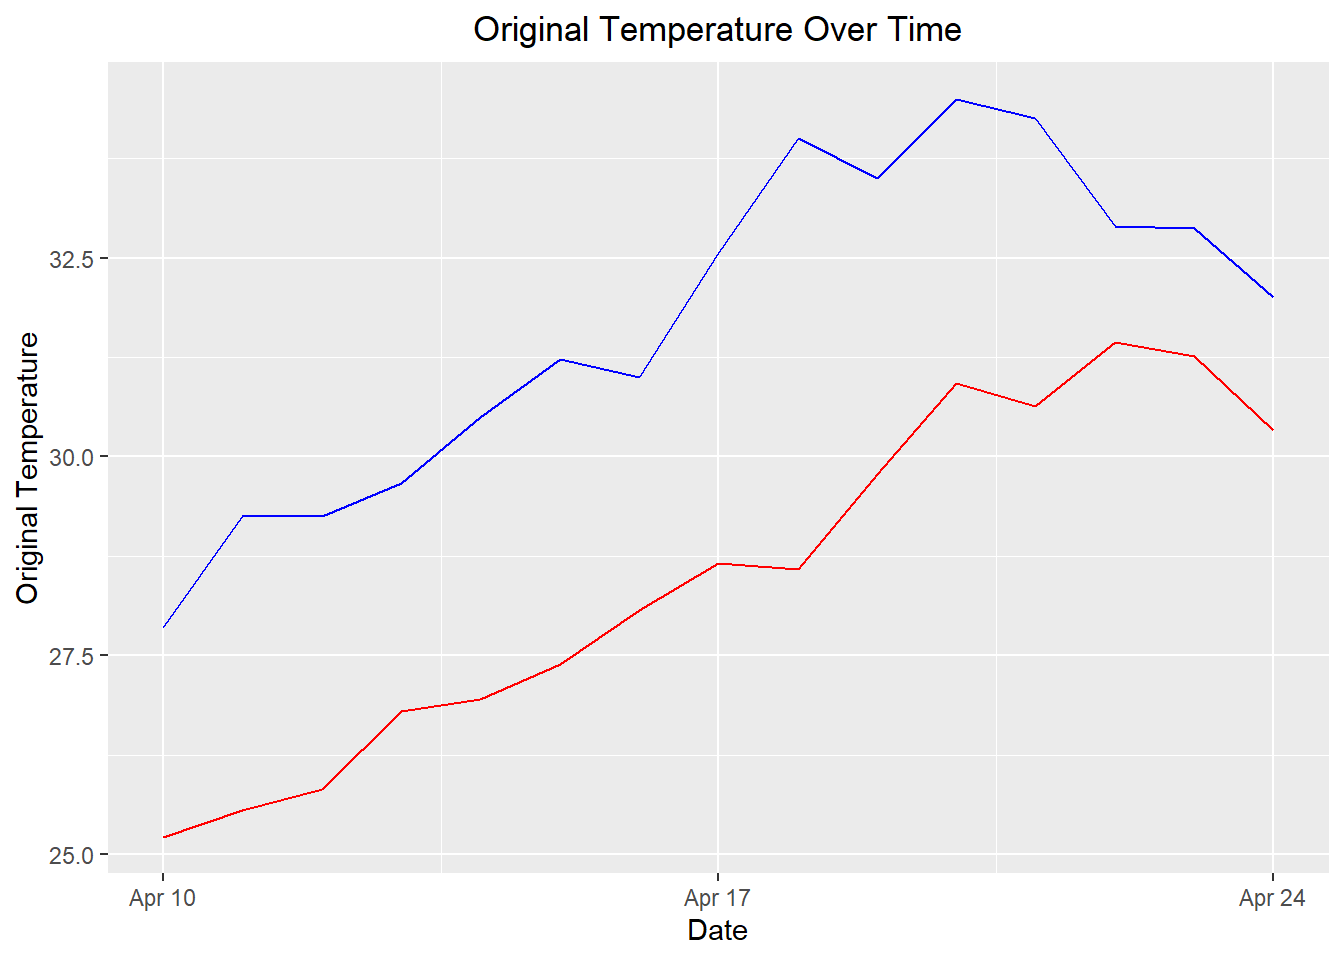
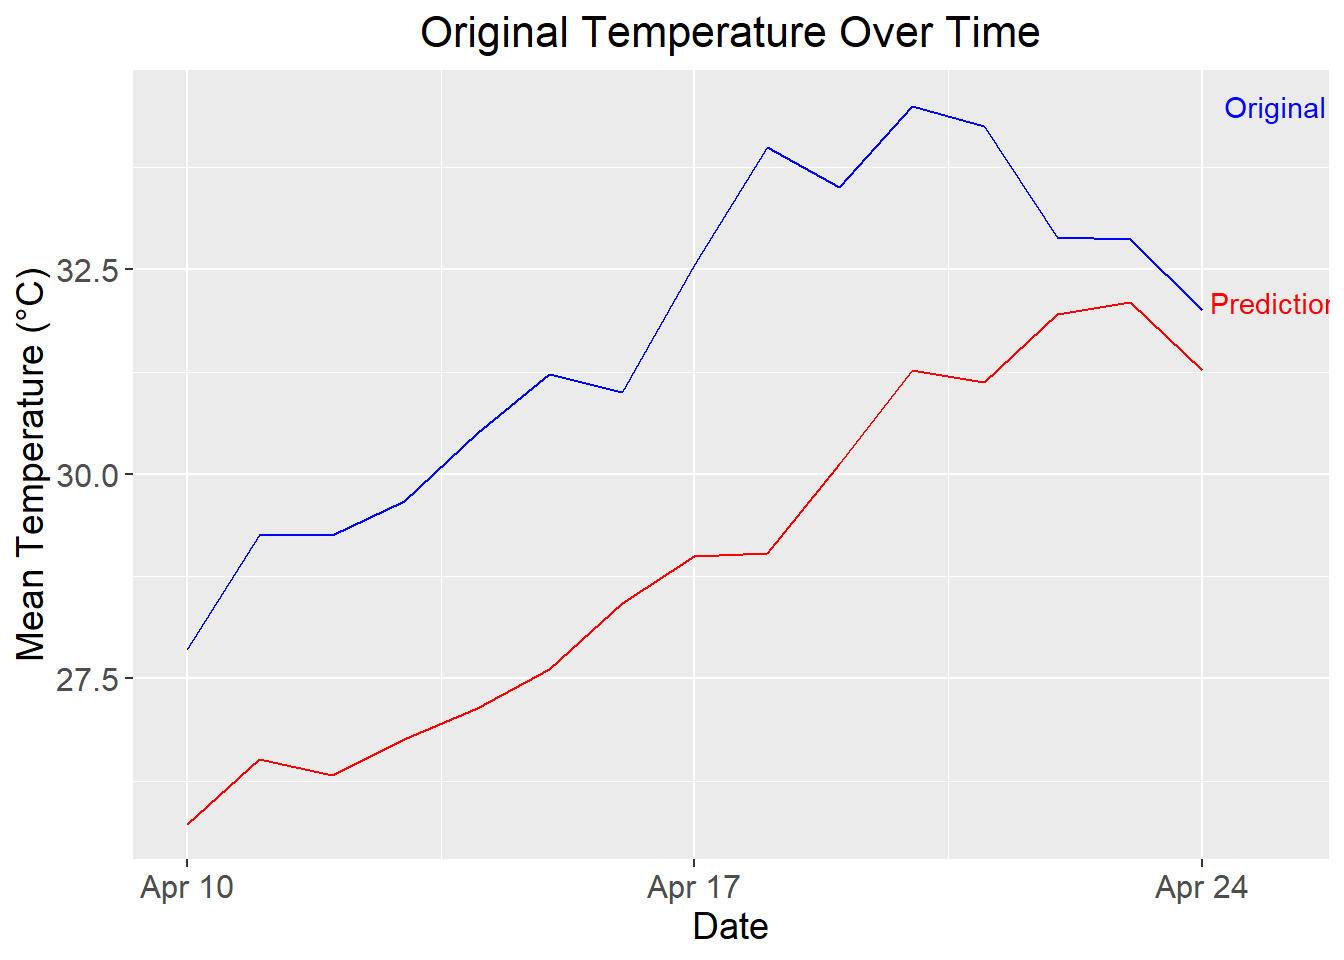
Updated Introduction and added new References.

diff --git a/index.html b/index.html
@@ -131,8 +131,14 @@ div.csl-indent {
 
 <section id="introduction" class="level2">
 <h2 class="anchored" data-anchor-id="introduction">Introduction</h2>
-<p>Recurrent networks can in principle use their feedback connections to store representations of recent input events in form of activation’s (“short-term memory”, as opposed to “long-term memory embodied by slowly changing weights). The most widely used algorithms for learning what to put in short-term memory, however, take too much time or do not work well at all, especially when minimal time lags between inputs and corresponding teacher signals are long. With conventional”Back-Propagation Through Time” or “Real-Time Recurrent Learning”, error signals “flowing backwards in time” tend to either (1) blow up or (2) vanish: the temporal evolution of the back-propagated error exponentially depends on the size of the weights. Case (1) may lead to oscillating weights, while in case (2) learning to bridge long time lags takes a prohibitive amount of time, or does not work at all. Long Short-Term Memory(LSTM), a novel recurrent network architecture in conjunction with an appropriate gradient based learning algorithm comes up as a remedy to solve this problem. It can learn to bridge time intervals in excess of 1000 steps even in case of noisy, in-compressible input sequences, without loss of short term time lag capabilities. This is achieved by an efficient, gradient-based algorithm for an architecture enforcing constant error flow through internal states of special units<span class="citation" data-cites="hochreiter1997long">(<a href="#ref-hochreiter1997long" role="doc-biblioref">Hochreiter and Schmidhuber 1997</a>)</span>. Recurrent neural networks with Long Short-term Memory have emerged as an effective and scalable model for several learning problems related to sequential data. The central idea behind the LSTM architecture is a memory cell which can maintain its state over time, and non-linear gating units which regulate the information flow into and out of the cell. Most modern studies incorporate many improvements that have been made to the LSTM architecture since its original formulation.However, LSTM’s are now applied to many learning problems which differ significantly in scale and nature from the problems that these improvements were initially tested on<span class="citation" data-cites="greff2016lstm">(<a href="#ref-greff2016lstm" role="doc-biblioref">Greff et al. 2016</a>)</span>.</p>
-<p>A large part of real-world datasets are temporal in nature. Due to its distinctive properties, there are numerous unsolved problems with wide range of applications. Data collected over regular intervals of time is called time-series (TS) data and each data point is equally spaced over time. TS prediction is the method of forecasting upcoming trends/patterns of the given historical dataset with temporal features. A time series (TS) data can be break downed into trend, seasonality and error. A trend in TS can be observed when a certain pattern repeats on regular intervals of time due to external factors. In many real world scenarios, either of trend or seasonality are absent. After finding the nature of TS, various forecasting methods have to be applied on given TS. Given the TS, it is broadly classified into 2 categories i.e. stationary and non-stationary. A series is said to be stationary, if it does not depend on the time components like trend, seasonality effects. Mean and variances of such series are constant with respect to time. Stationary TS is easier to analyze and results skillful forecasting. A TS data is said to non-stationary if it has trend, seasonality effects in it and changes with respect to time. Statistical properties like mean, variance, sand standard deviation also changes with respect to time<span class="citation" data-cites="chimmula2020time">(<a href="#ref-chimmula2020time" role="doc-biblioref">Chimmula and Zhang 2020</a>)</span>.</p>
+<p>Recurrent Neural Networks (RNNs) are one of the most popular data-driven approaches used for time-series prediction. RNNs benefit from feedback loops which makes the output of RNN in one time step to be seen as an input in the subsequent one. Having information in a sequential form, the input of the RNN in each time step includes the information of the corresponding time step in the sequence and the previous information provided by a feedback loop<span class="citation" data-cites="karevan2020transductive">(<a href="#ref-karevan2020transductive" role="doc-biblioref">Karevan and Suykens 2020</a>)</span>. A RNN maintains a memory based on history information, which enables the model to predict the current output conditioned on long distance features<span class="citation" data-cites="huang2015bidirectional">(<a href="#ref-huang2015bidirectional" role="doc-biblioref">Huang, Xu, and Yu 2015</a>)</span>.Recurrent networks can in principle use their feedback connections to store representations of recent input events in form of activation’s (“short-term memory”, as opposed to “long-term memory embodied by slowly changing weights). The most widely used algorithms for learning what to put in short-term memory, however, take too much time or do not work well at all, especially when minimal time lags between inputs and corresponding teacher signals are long. With conventional”Back-Propagation Through Time” or “Real-Time Recurrent Learning”, error signals “flowing backwards in time” tend to either (1) blow up or (2) vanish: the temporal evolution of the back-propagated error exponentially depends on the size of the weights. Case (1) may lead to oscillating weights, while in case (2) learning to bridge long time lags takes a prohibitive amount of time, or does not work at all.</p>
+<p>Recurrent Neural Networks, often shortened to RNNs, are a class of neural networks which exhibit temporal behavior due to directed connections between units of an individual layer. Recurrent neural</p>
+<p>networks maintain a hidden vector <strong>h</strong>, which is updated at time step <em>t</em> as follows:</p>
+<p><span class="math display">\[ h_t = tanh(Wh_{t-1}+Ix_t)\]</span> where tanh is the hyperbolic tangent function. <strong>W</strong> is the recurrent weight matrix and <strong>I</strong> is a projection matrix. The hidden state <strong>h</strong> is used to make a prediction</p>
+<p><span class="math display">\[y_t = softmax(Wh_{t-1})\]</span> where softmax provides a normalized probability distribution over the possible classes, <span class="math inline">\(\sigma\)</span> is the logistic sigmoid function and <strong>W</strong> is a weight matrix. By using <strong>h</strong> as the input to another RNN, we can stack RNNs, creating deeper architectures<span class="citation" data-cites="karim2017lstm">(<a href="#ref-karim2017lstm" role="doc-biblioref">Karim et al. 2017</a>)</span>. <span class="math display">\[h^l_t = \sigma(Wh^l_{t-1} + Ih^{l-1}_t)\]</span></p>
+<p>Long Short-Term Memory(LSTM), a novel recurrent network architecture in conjunction with an appropriate gradient based learning algorithm comes up as a remedy to solve this problem. It can learn to bridge time intervals in excess of 1000 steps even in case of noisy, in-compressible input sequences, without loss of short term time lag capabilities. This is achieved by an efficient, gradient-based algorithm for an architecture enforcing constant error flow through internal states of special units<span class="citation" data-cites="hochreiter1997long">(<a href="#ref-hochreiter1997long" role="doc-biblioref">Hochreiter and Schmidhuber 1997</a>)</span>. Recurrent neural networks with Long Short-term Memory have emerged as an effective and scalable model for several learning problems related to sequential data. The central idea behind the LSTM architecture is a memory cell which can maintain its state over time, and non-linear gating units which regulate the information flow into and out of the cell. Most modern studies incorporate many improvements that have been made to the LSTM architecture since its original formulation.However, LSTM’s are now applied to many learning problems which differ significantly in scale and nature from the problems that these improvements were initially tested on<span class="citation" data-cites="greff2016lstm">(<a href="#ref-greff2016lstm" role="doc-biblioref">Greff et al. 2016</a>)</span>.</p>
+<p>Due to information explosion in recent years, a large amount of data has become available online and manually analyzing this data is not feasible. Various supervised and unsupervised machine learning techniques have been developed to automatically gather and analyze data and make predictions. Deep learning techniques have become the hottest tool delivering state-of-the art results in areas as diverse as computer vision, speech recognition and NLP problems. But deep learning techniques also present a unique set of challenges. The performance of deep learning models depends upon a number of parameters called hyper-parameters. Hyper-parameters are manually set training variables which are determined before training the model. Some automatic techniques for tuning hyper-parameters have been proposed but these methods don’t provide insight to the end-users about the interactions between different hyper-parameters and their relative importance. For the deep learning model used in this paper, namely LSTM, the important hyper-parameters are activation function (sigmoid, tanh, softmax etc.), optimizer (Adam, Adadelta, RMSprop etc.), batch size, number of epochs, number of hidden layers etc. LSTM can be stateful or stateless<span class="citation" data-cites="yadav2020optimizing">(<a href="#ref-yadav2020optimizing" role="doc-biblioref">Yadav, Jha, and Sharan 2020</a>)</span>.</p>
+<p>A critical area of machine learning is Time Series forecasting, as various forecasting problems contain a time component. It is one of the most applied data science technique in business, supply chain management, and production. A series of observations taken chronologically in time is known as a Time Series(TS). A time-series dataset is different from other datasets, as it adds a time element. This added element is both a limitation and a structure that offers an additional source of information<span class="citation" data-cites="yamak2019comparison">(<a href="#ref-yamak2019comparison" role="doc-biblioref">Yamak, Yujian, and Gadosey 2019</a>)</span>. TS prediction is the method of forecasting upcoming trends/patterns of the given historical dataset with temporal features. A time series (TS) data can be break downed into trend, seasonality and error. A trend in TS can be observed when a certain pattern repeats on regular intervals of time due to external factors. In many real world scenarios, either of trend or seasonality are absent. After finding the nature of TS, various forecasting methods have to be applied on given TS. Given the TS, it is broadly classified into 2 categories i.e.&nbsp;stationary and non-stationary. A series is said to be stationary, if it does not depend on the time components like trend, seasonality effects. Mean and variances of such series are constant with respect to time. Stationary TS is easier to analyze and results skillful forecasting. A TS data is said to non-stationary if it has trend, seasonality effects in it and changes with respect to time. Statistical properties like mean, variance, sand standard deviation also changes with respect to time<span class="citation" data-cites="chimmula2020time">(<a href="#ref-chimmula2020time" role="doc-biblioref">Chimmula and Zhang 2020</a>)</span>.</p>
 </section>
 <section id="methods" class="level2">
 <h2 class="anchored" data-anchor-id="methods">Methods</h2>
@@ -221,7 +227,7 @@ div.csl-indent {
 <p><img src="index_files/figure-html/unnamed-chunk-3-1.png" class="img-fluid" width="672"></p>
 </div>
 </div>
-<p>Split dataset into train and test sets</p>
+<p>Performing Min Max Transformations on the dataset</p>
 <div class="cell">
 <details>
 <summary>Code</summary>
@@ -231,7 +237,6 @@ div.csl-indent {
 <span id="cb7-4"><a href="#cb7-4" aria-hidden="true" tabindex="-1"></a>mean_temp<span class="sc">$</span>transformed <span class="ot">&lt;-</span> (mean_temp<span class="sc">$</span>meantemp <span class="sc">-</span> <span class="fu">min</span>(mean_temp<span class="sc">$</span>meantemp)) <span class="sc">/</span> (<span class="fu">max</span>(mean_temp<span class="sc">$</span>meantemp) <span class="sc">-</span> <span class="fu">min</span>(mean_temp<span class="sc">$</span>meantemp))</span></code><button title="Copy to Clipboard" class="code-copy-button"><i class="bi"></i></button></pre></div>
 </details>
 </div>
-<p>Generally in LSTM the data needs to be in a supervised learning mode. That is done by having at least 2 variable: target variable <em>Y</em> and predictor <em>X</em>. To achieve this, we transform the series by lagging the series and have the value at <em>time (t−k)</em> as the input and value at <em>time t</em> as the output, for a k-step lagged dataset.</p>
 </section>
 <section id="statistical-modeling" class="level3">
 <h3 class="anchored" data-anchor-id="statistical-modeling">Statistical Modeling</h3>
@@ -256,7 +261,7 @@ div.csl-indent {
 <span id="cb10-7"><a href="#cb10-7" aria-hidden="true" tabindex="-1"></a>                 <span class="at">tsLag=</span><span class="dv">5</span>,</span>
 <span id="cb10-8"><a href="#cb10-8" aria-hidden="true" tabindex="-1"></a>                 <span class="at">LSTMUnits=</span><span class="dv">7</span>,</span>
 <span id="cb10-9"><a href="#cb10-9" aria-hidden="true" tabindex="-1"></a>                 <span class="at">DropoutRate =</span> <span class="fl">0.1</span>,</span>
-<span id="cb10-10"><a href="#cb10-10" aria-hidden="true" tabindex="-1"></a>                 <span class="at">Epochs =</span> <span class="dv">10</span>,</span>
+<span id="cb10-10"><a href="#cb10-10" aria-hidden="true" tabindex="-1"></a>                 <span class="at">Epochs =</span> <span class="dv">20</span>,</span>
 <span id="cb10-11"><a href="#cb10-11" aria-hidden="true" tabindex="-1"></a>                 <span class="at">CompLoss =</span> <span class="st">"mse"</span>,</span>
 <span id="cb10-12"><a href="#cb10-12" aria-hidden="true" tabindex="-1"></a>                 <span class="at">CompMetrics =</span> <span class="st">"mae"</span>,</span>
 <span id="cb10-13"><a href="#cb10-13" aria-hidden="true" tabindex="-1"></a>                 <span class="at">ActivationFn =</span> <span class="st">"tanh"</span>,</span>
@@ -291,16 +296,27 @@ ________________________________________________________________________________
 <span id="cb12-11"><a href="#cb12-11" aria-hidden="true" tabindex="-1"></a> Result<span class="sc">$</span>Prediction<span class="ot">=</span> Result<span class="sc">$</span>S_pred <span class="sc">*</span> ( <span class="fu">max</span>(df<span class="sc">$</span>meantemp) <span class="sc">-</span> <span class="fu">min</span>(df<span class="sc">$</span>meantemp) ) <span class="sc">+</span> <span class="fu">min</span>(df<span class="sc">$</span>meantemp)</span></code><button title="Copy to Clipboard" class="code-copy-button"><i class="bi"></i></button></pre></div>
 </details>
 </div>
+<p>Plotting the Actual vs Predicted values in one visualization.</p>
 <div class="cell">
 <details>
 <summary>Code</summary>
-<div class="sourceCode cell-code" id="cb13"><pre class="sourceCode r code-with-copy"><code class="sourceCode r"><span id="cb13-1"><a href="#cb13-1" aria-hidden="true" tabindex="-1"></a>Result<span class="sc">$</span>date <span class="ot">&lt;-</span> <span class="fu">as.Date</span>(Result<span class="sc">$</span>date)</span>
-<span id="cb13-2"><a href="#cb13-2" aria-hidden="true" tabindex="-1"></a><span class="fu">ggplot</span>(<span class="at">data =</span> Result) <span class="sc">+</span></span>
-<span id="cb13-3"><a href="#cb13-3" aria-hidden="true" tabindex="-1"></a>  <span class="fu">geom_line</span>( <span class="fu">aes</span>(<span class="at">x =</span> date, <span class="at">y =</span> meantemp), <span class="at">color =</span> <span class="st">"blue"</span>) <span class="sc">+</span></span>
-<span id="cb13-4"><a href="#cb13-4" aria-hidden="true" tabindex="-1"></a>  <span class="fu">geom_line</span>( <span class="fu">aes</span>(<span class="at">x =</span> date, <span class="at">y =</span> Prediction), <span class="at">color =</span> <span class="st">"red"</span>) <span class="sc">+</span></span>
-<span id="cb13-5"><a href="#cb13-5" aria-hidden="true" tabindex="-1"></a>  <span class="fu">labs</span>(<span class="at">x =</span> <span class="st">"Date"</span>, <span class="at">y =</span> <span class="st">"Original Temperature"</span>) <span class="sc">+</span></span>
-<span id="cb13-6"><a href="#cb13-6" aria-hidden="true" tabindex="-1"></a>  <span class="fu">ggtitle</span>(<span class="st">"Original Temperature Over Time"</span>) <span class="sc">+</span></span>
-<span id="cb13-7"><a href="#cb13-7" aria-hidden="true" tabindex="-1"></a>  <span class="fu">theme</span>(<span class="at">plot.title =</span> <span class="fu">element_text</span>(<span class="at">hjust =</span> <span class="fl">0.5</span>))</span></code><button title="Copy to Clipboard" class="code-copy-button"><i class="bi"></i></button></pre></div>
+<div class="sourceCode cell-code" id="cb13"><pre class="sourceCode r code-with-copy"><code class="sourceCode r"><span id="cb13-1"><a href="#cb13-1" aria-hidden="true" tabindex="-1"></a><span class="co"># Calculate label positions</span></span>
+<span id="cb13-2"><a href="#cb13-2" aria-hidden="true" tabindex="-1"></a>label_pos <span class="ot">&lt;-</span> <span class="fu">data.frame</span>(<span class="at">label =</span> <span class="fu">c</span>(<span class="st">"Original"</span>, <span class="st">"Prediction"</span>),</span>
+<span id="cb13-3"><a href="#cb13-3" aria-hidden="true" tabindex="-1"></a>                        <span class="at">y =</span> <span class="fu">c</span>(<span class="fu">max</span>(Result<span class="sc">$</span>meantemp), <span class="fu">max</span>(Result<span class="sc">$</span>Prediction)),</span>
+<span id="cb13-4"><a href="#cb13-4" aria-hidden="true" tabindex="-1"></a>                        <span class="at">label_color =</span> <span class="fu">c</span>(<span class="st">"blue"</span>, <span class="st">"red"</span>))</span>
+<span id="cb13-5"><a href="#cb13-5" aria-hidden="true" tabindex="-1"></a></span>
+<span id="cb13-6"><a href="#cb13-6" aria-hidden="true" tabindex="-1"></a><span class="fu">ggplot</span>(<span class="at">data =</span> Result) <span class="sc">+</span></span>
+<span id="cb13-7"><a href="#cb13-7" aria-hidden="true" tabindex="-1"></a>  <span class="fu">geom_line</span>(<span class="fu">aes</span>(<span class="at">x =</span> date, <span class="at">y =</span> meantemp), <span class="at">color =</span> <span class="st">"blue"</span>) <span class="sc">+</span></span>
+<span id="cb13-8"><a href="#cb13-8" aria-hidden="true" tabindex="-1"></a>  <span class="fu">geom_line</span>(<span class="fu">aes</span>(<span class="at">x =</span> date, <span class="at">y =</span> Prediction), <span class="at">color =</span> <span class="st">"red"</span>) <span class="sc">+</span></span>
+<span id="cb13-9"><a href="#cb13-9" aria-hidden="true" tabindex="-1"></a>  <span class="fu">labs</span>(<span class="at">x =</span> <span class="st">"Date"</span>, <span class="at">y =</span> <span class="st">"Mean Temperature (°C)"</span>,  <span class="co"># Updated y-axis label with units</span></span>
+<span id="cb13-10"><a href="#cb13-10" aria-hidden="true" tabindex="-1"></a>       <span class="at">title =</span> <span class="st">"Original Temperature Over Time"</span>) <span class="sc">+</span>  <span class="co"># Plot title</span></span>
+<span id="cb13-11"><a href="#cb13-11" aria-hidden="true" tabindex="-1"></a>  <span class="fu">annotate</span>(<span class="st">"text"</span>, <span class="at">x =</span> <span class="fu">max</span>(Result<span class="sc">$</span>date) <span class="sc">+</span> <span class="dv">1</span>, <span class="at">y =</span> label_pos<span class="sc">$</span>y, </span>
+<span id="cb13-12"><a href="#cb13-12" aria-hidden="true" tabindex="-1"></a>           <span class="at">label =</span> label_pos<span class="sc">$</span>label, <span class="at">color =</span> label_pos<span class="sc">$</span>label_color, <span class="at">vjust =</span> <span class="fl">0.5</span>) <span class="sc">+</span></span>
+<span id="cb13-13"><a href="#cb13-13" aria-hidden="true" tabindex="-1"></a>  <span class="fu">theme</span>(<span class="at">axis.text.y =</span> <span class="fu">element_text</span>(<span class="at">size =</span> <span class="dv">12</span>),   <span class="co"># Set font size for y-axis tick labels</span></span>
+<span id="cb13-14"><a href="#cb13-14" aria-hidden="true" tabindex="-1"></a>        <span class="at">axis.title.y =</span> <span class="fu">element_text</span>(<span class="at">size =</span> <span class="dv">14</span>),  <span class="co"># Set font size for y-axis label</span></span>
+<span id="cb13-15"><a href="#cb13-15" aria-hidden="true" tabindex="-1"></a>        <span class="at">axis.text.x =</span> <span class="fu">element_text</span>(<span class="at">size =</span> <span class="dv">12</span>),   <span class="co"># Set font size for x-axis tick labels</span></span>
+<span id="cb13-16"><a href="#cb13-16" aria-hidden="true" tabindex="-1"></a>        <span class="at">axis.title.x =</span> <span class="fu">element_text</span>(<span class="at">size =</span> <span class="dv">14</span>),  <span class="co"># Set font size for x-axis label</span></span>
+<span id="cb13-17"><a href="#cb13-17" aria-hidden="true" tabindex="-1"></a>        <span class="at">plot.title =</span> <span class="fu">element_text</span>(<span class="at">size =</span> <span class="dv">16</span>, <span class="at">hjust =</span> <span class="fl">0.5</span>))  <span class="co"># Set font size for plot title</span></span></code><button title="Copy to Clipboard" class="code-copy-button"><i class="bi"></i></button></pre></div>
 </details>
 <div class="cell-output-display">
 <p><img src="index_files/figure-html/unnamed-chunk-6-1.png" class="img-fluid" width="672"></p>
@@ -332,8 +348,23 @@ Greff, Klaus, Rupesh K Srivastava, Jan Koutnı́k, Bas R Steunebrink, and Jürge
 <div id="ref-hochreiter1997long" class="csl-entry" role="listitem">
 Hochreiter, Sepp, and Jürgen Schmidhuber. 1997. <span>“Long Short-Term Memory.”</span> <em>Neural Computation</em> 9 (8): 1735–80.
 </div>
+<div id="ref-huang2015bidirectional" class="csl-entry" role="listitem">
+Huang, Zhiheng, Wei Xu, and Kai Yu. 2015. <span>“Bidirectional LSTM-CRF Models for Sequence Tagging.”</span> <em>arXiv Preprint arXiv:1508.01991</em>.
+</div>
+<div id="ref-karevan2020transductive" class="csl-entry" role="listitem">
+Karevan, Zahra, and Johan AK Suykens. 2020. <span>“Transductive LSTM for Time-Series Prediction: An Application to Weather Forecasting.”</span> <em>Neural Networks</em> 125: 1–9.
+</div>
+<div id="ref-karim2017lstm" class="csl-entry" role="listitem">
+Karim, Fazle, Somshubra Majumdar, Houshang Darabi, and Shun Chen. 2017. <span>“LSTM Fully Convolutional Networks for Time Series Classification.”</span> <em>IEEE Access</em> 6: 1662–69.
+</div>
 <div id="ref-van2020review" class="csl-entry" role="listitem">
 Van Houdt, Greg, Carlos Mosquera, and Gonzalo Nápoles. 2020. <span>“A Review on the Long Short-Term Memory Model.”</span> <em>Artificial Intelligence Review</em> 53: 5929–55.
+</div>
+<div id="ref-yadav2020optimizing" class="csl-entry" role="listitem">
+Yadav, Anita, CK Jha, and Aditi Sharan. 2020. <span>“Optimizing LSTM for Time Series Prediction in Indian Stock Market.”</span> <em>Procedia Computer Science</em> 167: 2091–2100.
+</div>
+<div id="ref-yamak2019comparison" class="csl-entry" role="listitem">
+Yamak, Peter T, Li Yujian, and Pius K Gadosey. 2019. <span>“A Comparison Between Arima, Lstm, and Gru for Time Series Forecasting.”</span> In <em>Proceedings of the 2019 2nd International Conference on Algorithms, Computing and Artificial Intelligence</em>, 49–55.
 </div>
 </div></section></div></main>
 <!-- /main column -->
